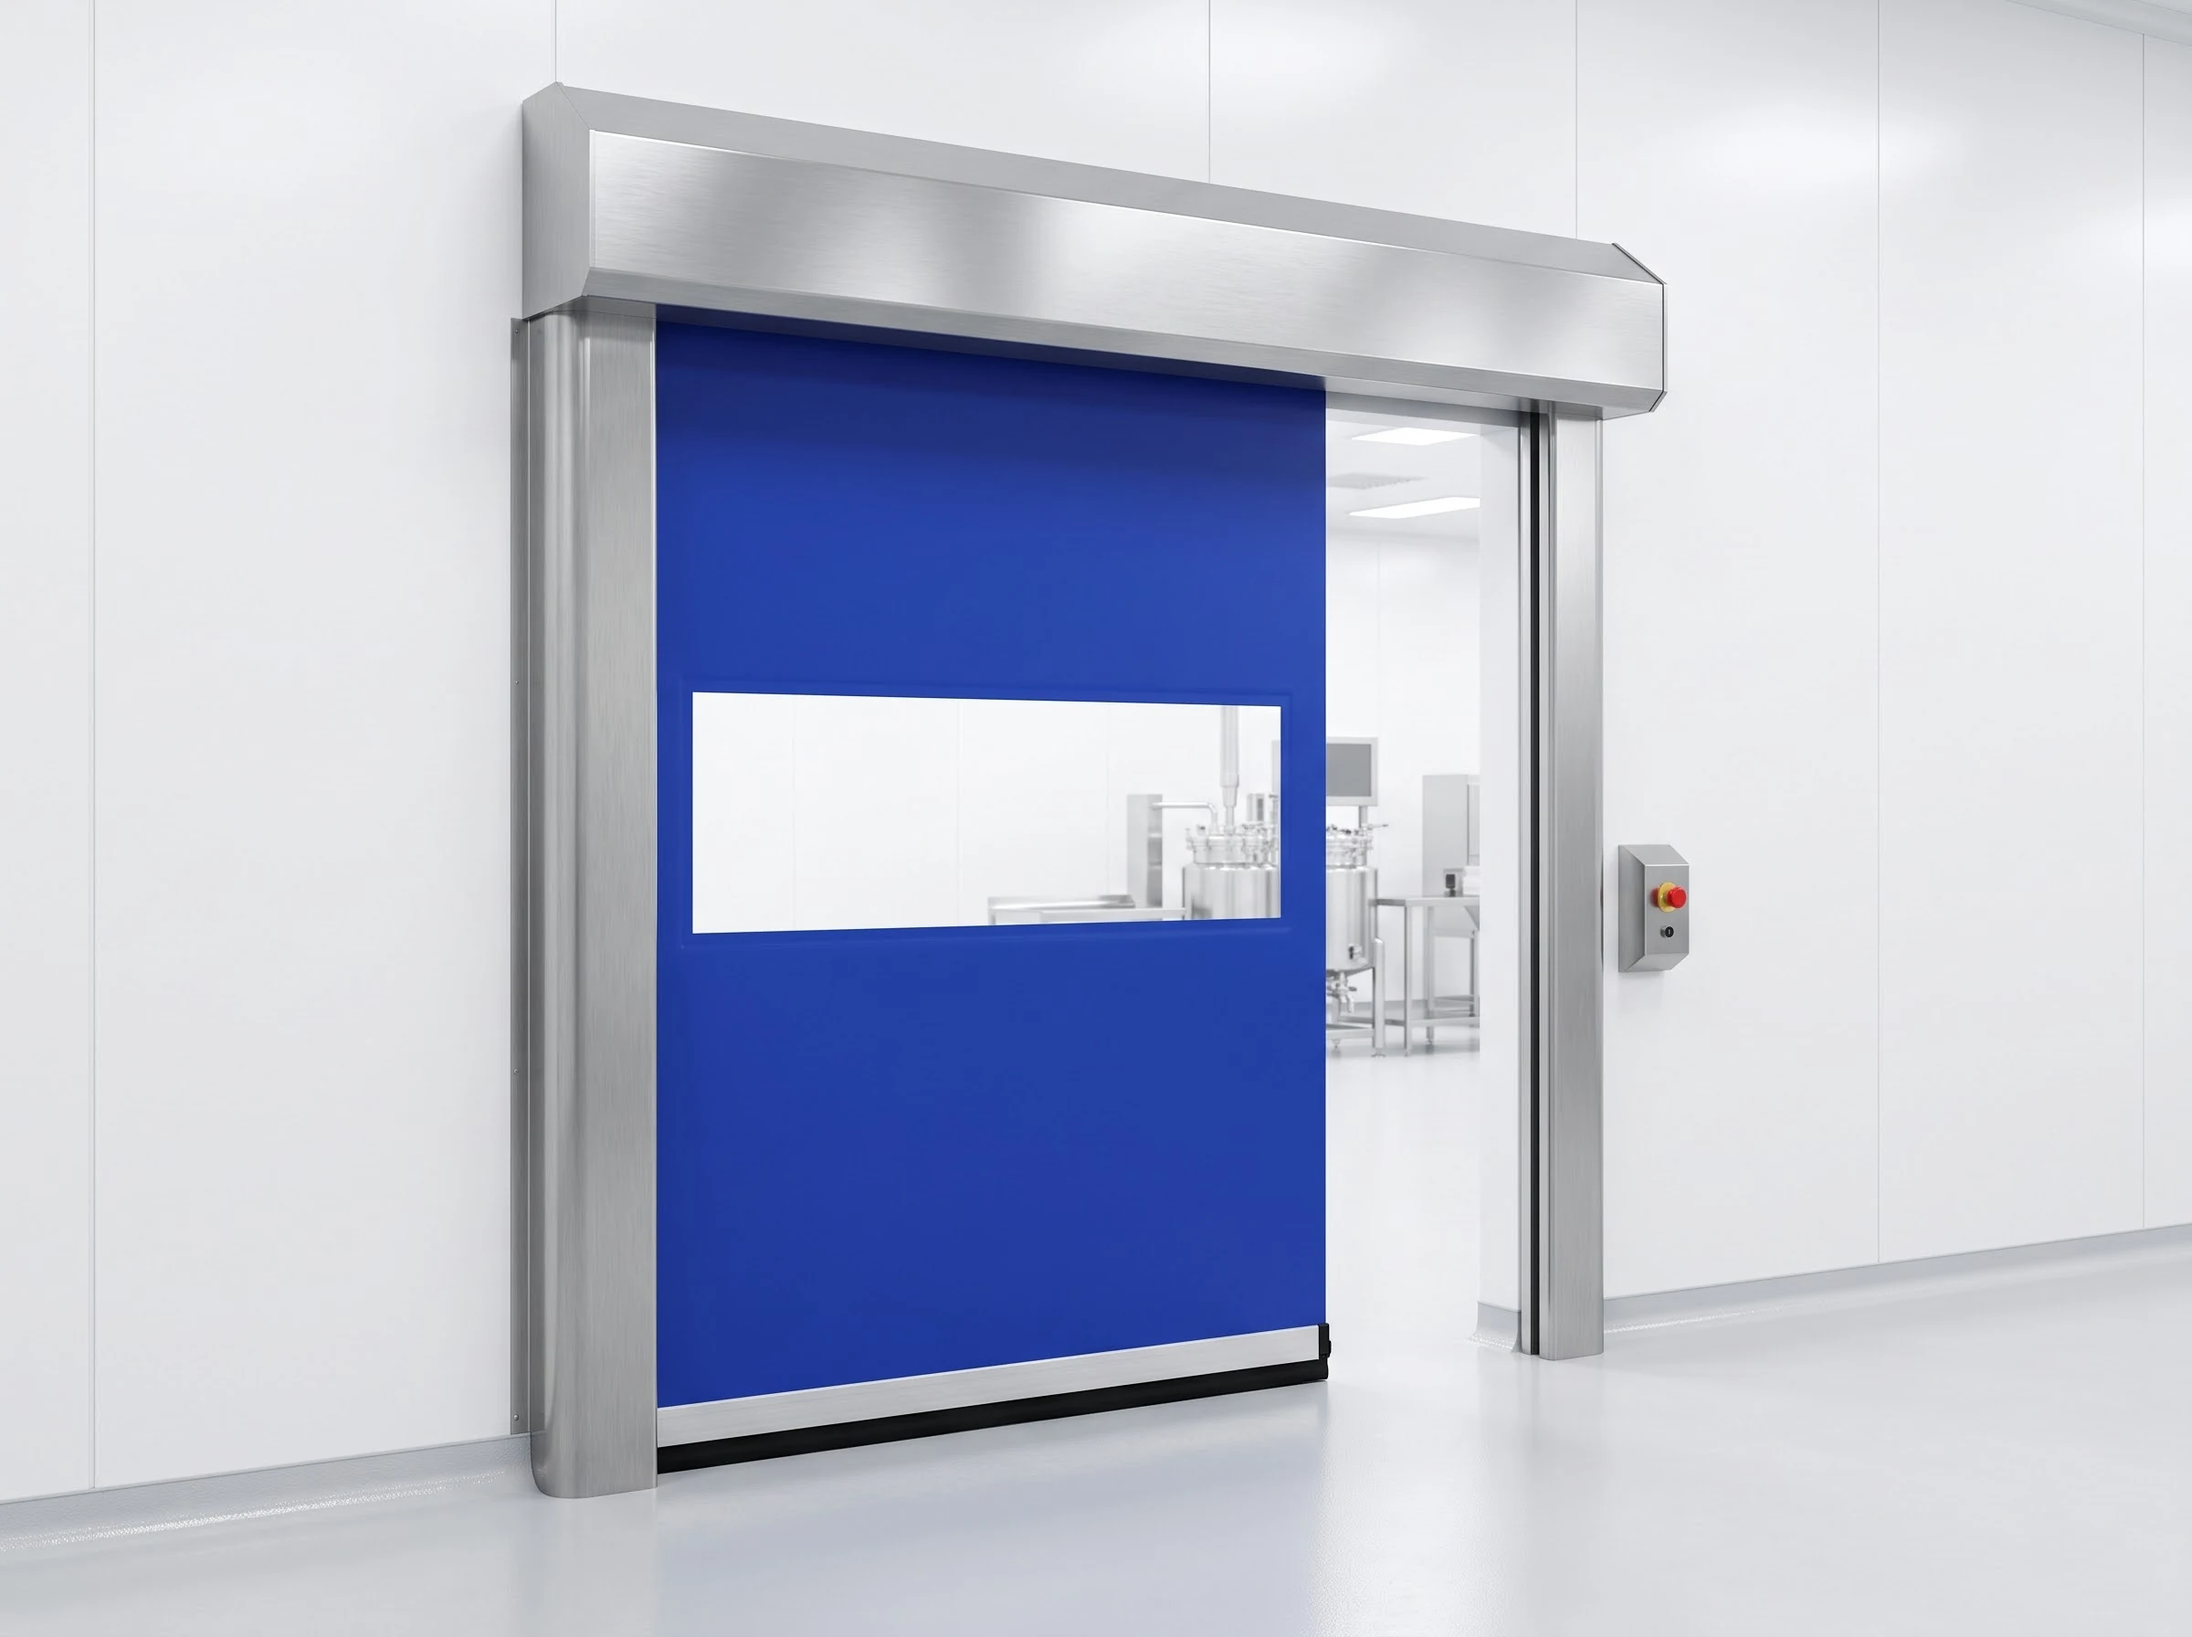
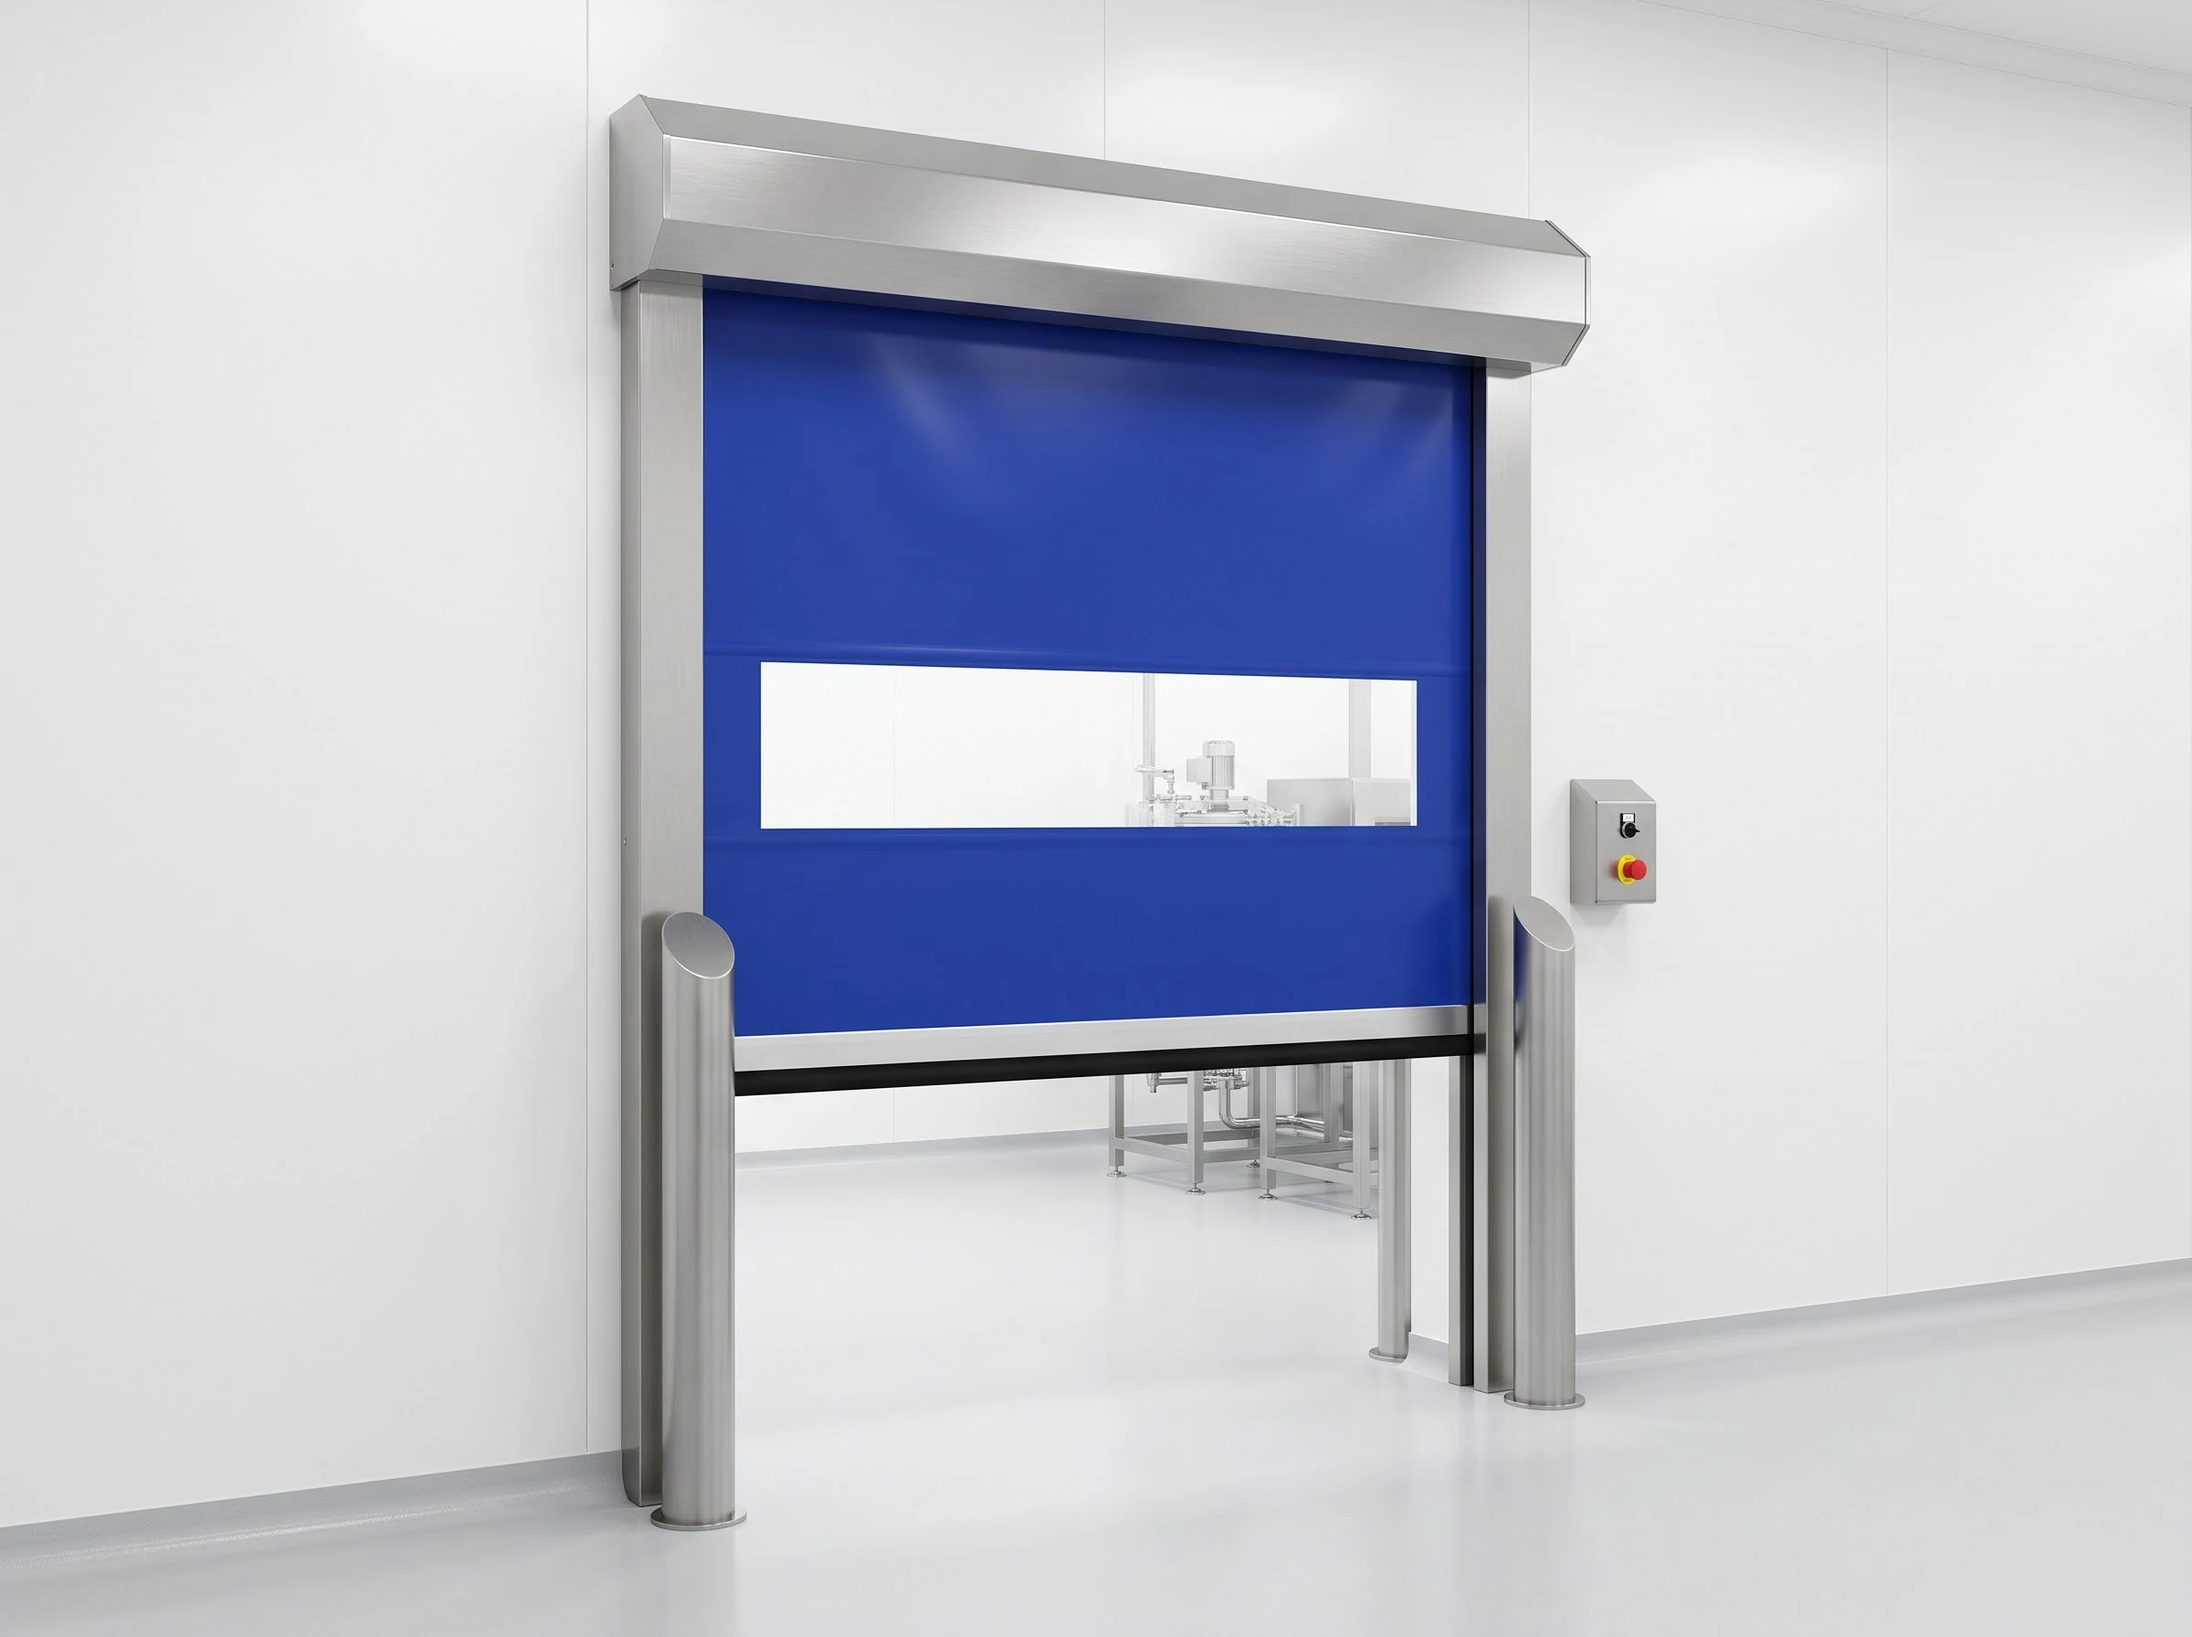
High Speed Cleanroom Door: regenerated hero as a roll-up door

diff --git a/web/src/data/images.ts b/web/src/data/images.ts
@@ -368,7 +368,7 @@ const list: ImageRef[] = [
     "high-speed-doors",
     "high-speed-cleanroom-hygiene-door",
     "hero",
-    "A royal-blue high speed cleanroom door lowered to about two-thirds across an opening in the white flush-panel wall of a pharmaceutical clean corridor, its smooth seamless curtain with a full-width clear vision band running in fully enclosed brushed stainless guide columns beneath a sloped-top stainless hood, the bright clean area and stainless equipment visible beneath the bottom bar, a stainless control station with red emergency stop beside the guide and a pale epoxy floor with coved skirting",
+    "A royal-blue high speed roll-up hygiene door lowered to about two-thirds across an opening in the white flush-panel wall of a pharmaceutical clean corridor, its smooth seamless curtain hanging from the sloped-top stainless hood with a full-width clear vision band, held in fully enclosed brushed stainless guide columns with stainless bollards at their feet, the bright clean area and stainless equipment visible beneath the bottom bar, a stainless control station with red emergency stop beside the guide and a pale epoxy floor",
     "High Speed Cleanroom / Hygiene Door — lead image",
     "research/cleanroom-door-visual-definition.md",
   ),
